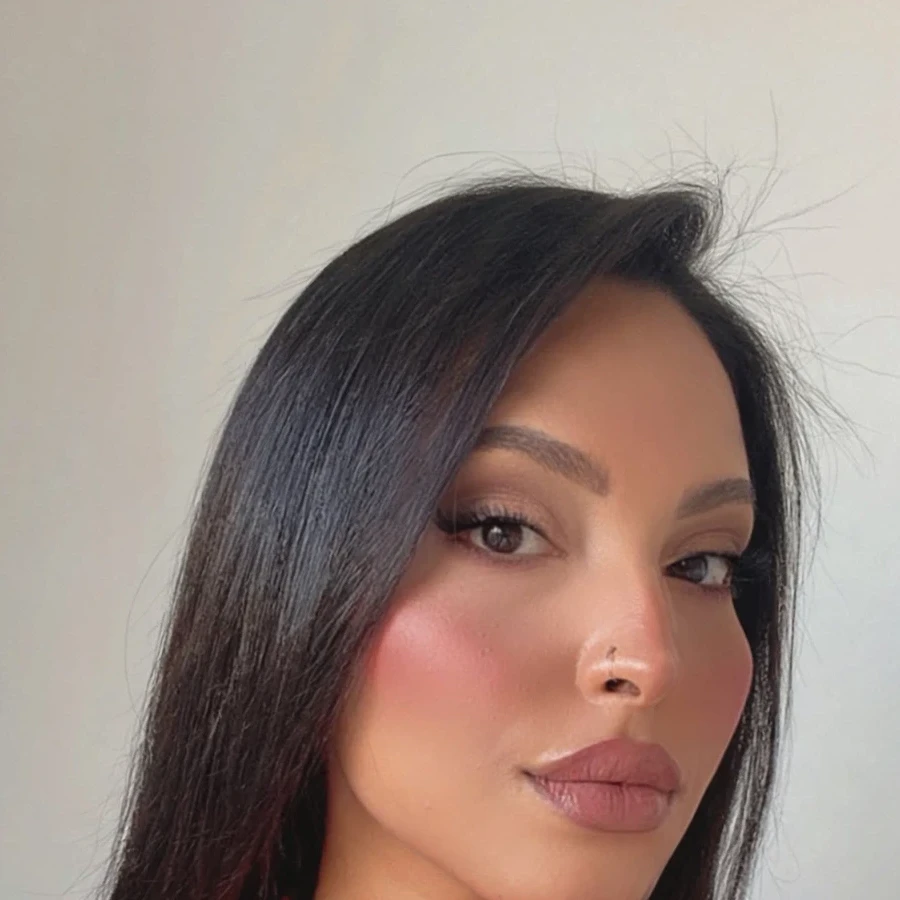
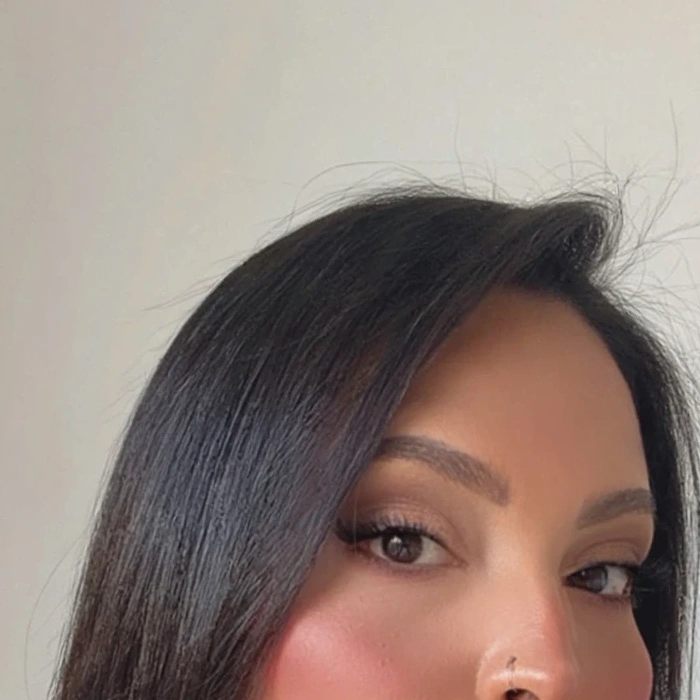
Properly crop Emna photo centered on face
- Tighter 700x700 crop instead of 900x900
- Eyes positioned at 40% from top for proper portrait framing
- Remove object-position CSS workaround

diff --git a/components/HomeContent.tsx b/components/HomeContent.tsx
@@ -112,7 +112,7 @@ export default function HomeContent({ featuredBiens }: HomeContentProps) {
             </motion.div>
             <motion.div initial={{ opacity: 0, y: 30 }} whileInView={{ opacity: 1, y: 0 }} viewport={{ once: true }} transition={{ duration: 0.7, delay: 0.2 }} className="bg-white shadow-sm p-8">
               <div className="w-20 h-20 rounded-full overflow-hidden mb-4">
-                <Image src="/emna-photo.webp" alt="Emna Rancurel" width={80} height={80} className="w-full h-full object-cover" style={{ objectPosition: '50% 30%' }} />
+                <Image src="/emna-photo.webp" alt="Emna Rancurel" width={80} height={80} className="w-full h-full object-cover" />
               </div>
               <h3 className="font-display text-2xl text-nuit">Emna Rancurel</h3>
               <p className="text-sm tracking-wide uppercase mt-1 mb-4" style={{ color: '#B8923A' }}>Juriste - Droit des affaires internationales</p>

diff --git a/components/TeamCard.tsx b/components/TeamCard.tsx
@@ -37,7 +37,7 @@ export default function TeamCard({
     >
       {photo ? (
         <div className="w-20 h-20 rounded-full overflow-hidden mb-4">
-          <Image src={photo} alt={name} width={80} height={80} className="w-full h-full object-cover" style={{ objectPosition: photo.includes('emna') ? '50% 30%' : '50% 50%' }} />
+          <Image src={photo} alt={name} width={80} height={80} className="w-full h-full object-cover" />
         </div>
       ) : (
         <div className="w-20 h-20 rounded-full flex items-center justify-center text-white font-bold text-2xl mb-4" style={{ backgroundColor: bgColor }}>
